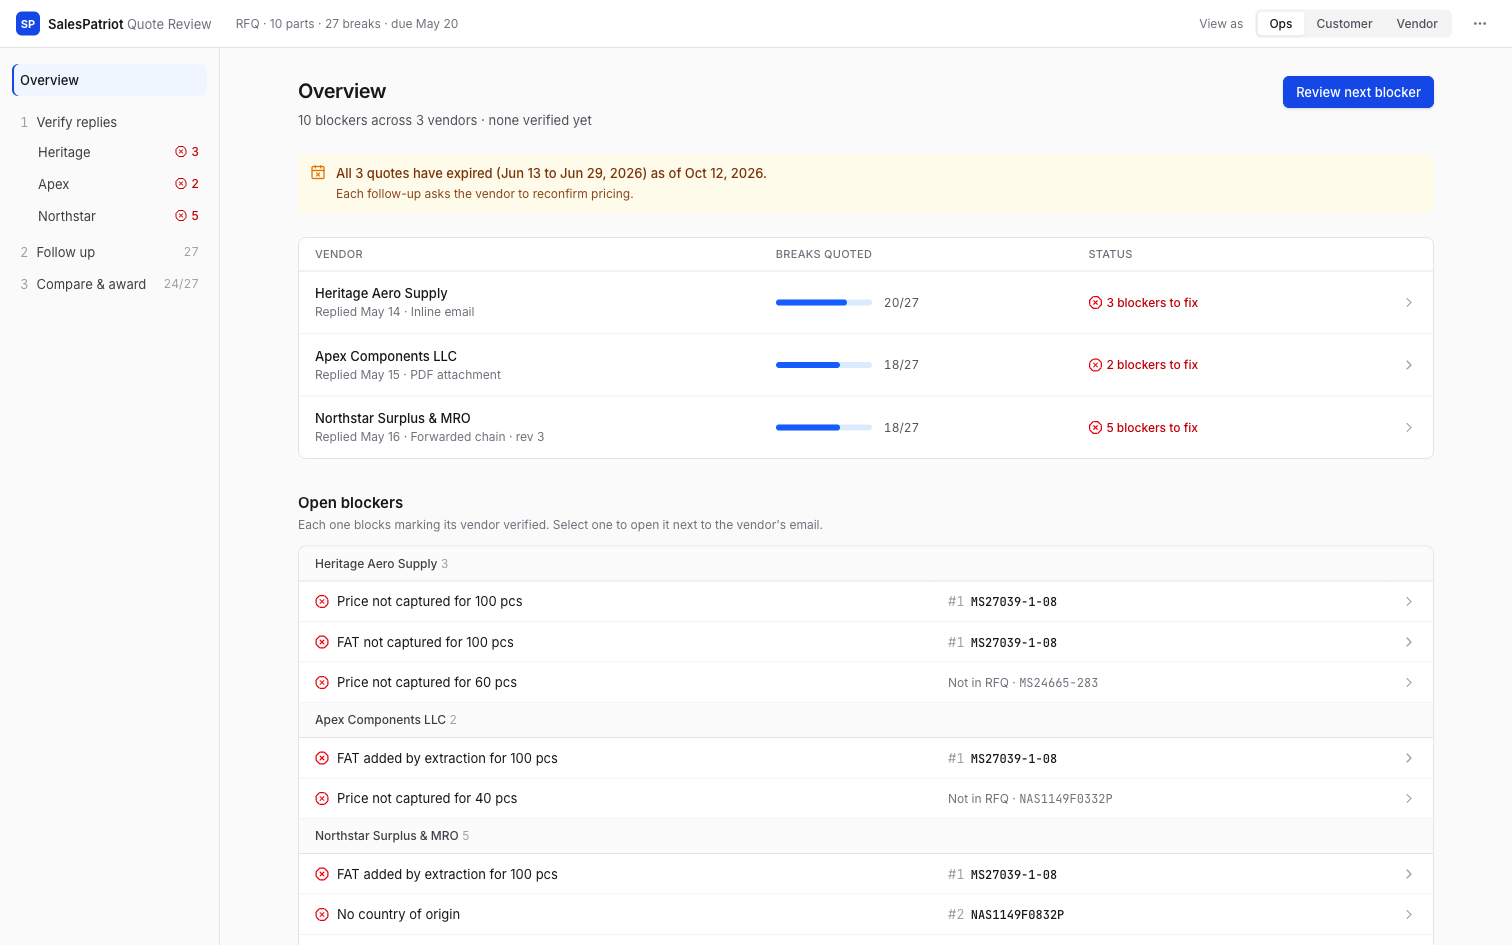
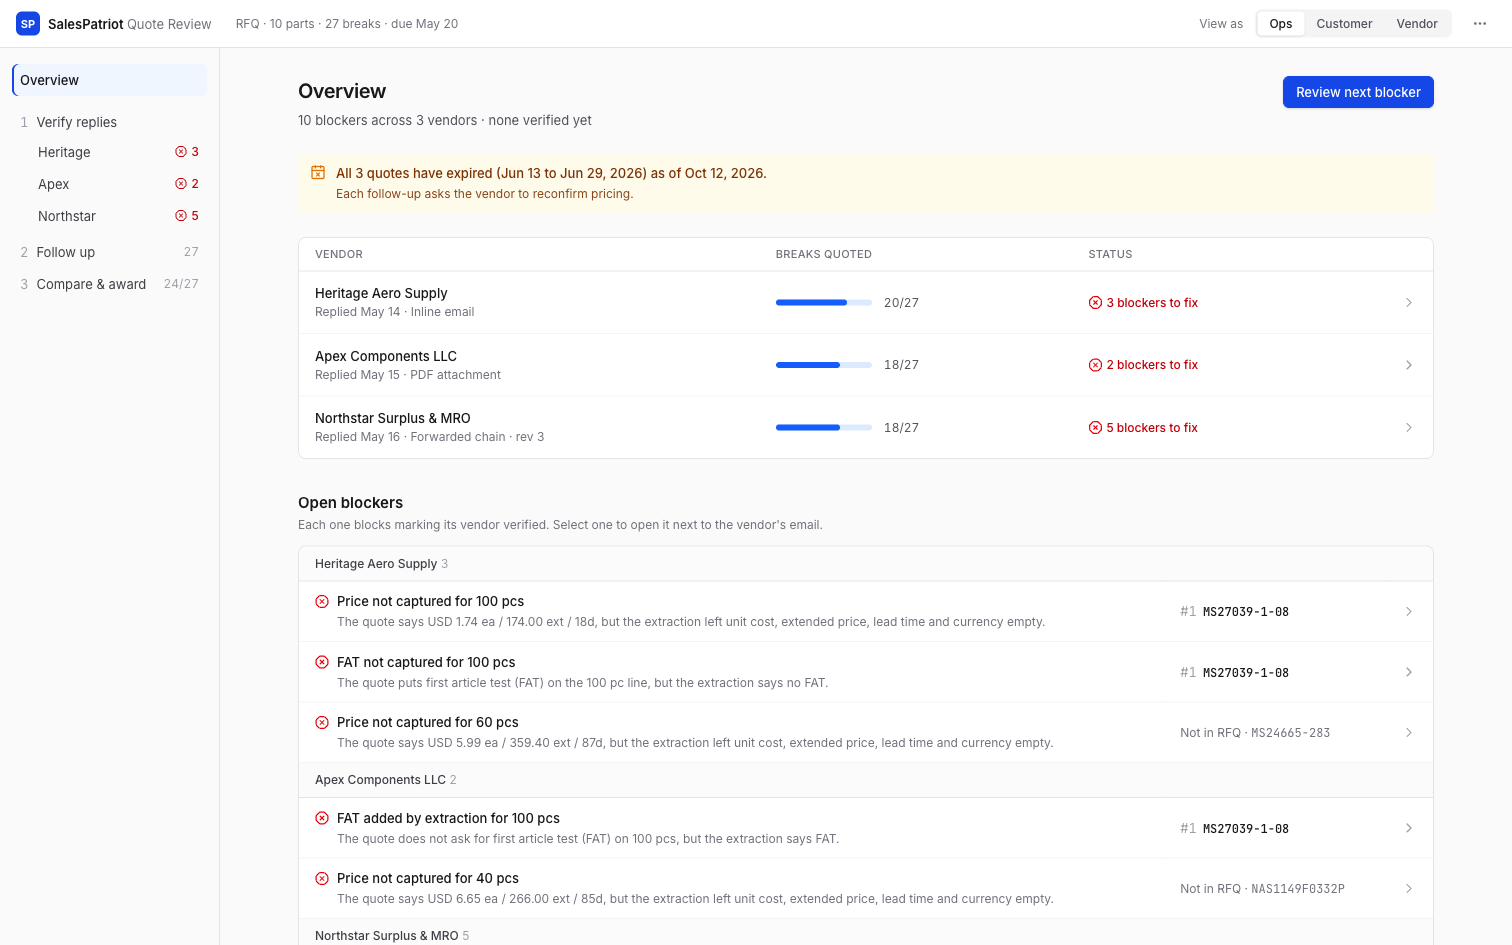
Make blockers obvious and show what each one is checked against
- Selected issue quotes the exact email or RFQ line it is checked against
  (with whose email and when), above the extracted-vs-email values.
- Blocker rows in the issues list and the overview show their comparison
  sentence in full; every issue row carries its severity icon.
- Quote table: lines with an open blocker are tinted red with a red edge and
  label; the selected line scrolls into view next to its email line.
- Fix: absolutely positioned screen-reader labels inside the panes could make
  the whole page scroll when a selection scrolled into view.

diff --git a/src/ui/shared/QuoteTable.tsx b/src/ui/shared/QuoteTable.tsx
@@ -4,7 +4,7 @@
 
 import clsx from 'clsx';
 import { Ban, ChevronRight, PenLine, TriangleAlert, Undo2 } from 'lucide-react';
-import { useState, type KeyboardEvent, type ReactNode } from 'react';
+import { useEffect, useRef, useState, type KeyboardEvent, type ReactNode } from 'react';
 import type { Flag, LineReview, ProductReview, RfqItem, RuleId, Severity, Span, VendorReview } from '../../domain/types';
 import { useReview } from '../../store/useReview';
 import { formatLeadTime, formatQty } from './format';
@@ -20,6 +20,8 @@ export interface QuoteTableProps { review: VendorReview;
 
 const COLUMN_COUNT = 5;
 const SEVERITY_RANK: Record<Severity, number> = { blocker: 0, warning: 1, info: 2 };
+/** Status label color per severity, so a blocker reads red at a glance. */
+const ISSUE_LABEL_TONES: Record<Severity, string> = { blocker: 'font-medium text-red-700', warning: 'text-amber-800', info: 'text-zinc-600' };
 /** Issues that mean a value exists in the email but is absent here: the cell says "Missing" in red. */
 const MISSING_VALUE_RULES: ReadonlySet<RuleId> = new Set(['EXTRACTION_DROPPED_VALUE', 'MISSING_PRICE']);
 const CELL = 'px-3 py-2';
@@ -81,6 +83,7 @@ export function QuoteTable({ review, audience, selectedLineId, onSelectLine }: Q
   const selectInStore = useReview((state) => state.select);
   const [expandedIds, setExpandedIds] = useState<ReadonlySet<string>>(() => new Set<string>());
   const [isNotInRfqOpen, setIsNotInRfqOpen] = useState(false);
+  const tableRef = useRef<HTMLTableElement>(null);
 
   const isOps = audience === 'ops';
   const vendorId = review.vendor.id;
@@ -94,6 +97,11 @@ export function QuoteTable({ review, audience, selectedLineId, onSelectLine }: Q
   const notInRfq = review.products.filter((productReview) => !isOnRfq(productReview));
   const isSelectionNotInRfq = notInRfq.some((productReview) => productReview.lines.some((lineReview) => lineReview.line.id === selectedLineId));
   const showNotInRfq = isNotInRfqOpen || isSelectionNotInRfq;
+
+  // Keep the selected line in view, so the extracted row and the email line it is checked against show together.
+  useEffect(() => {
+    if (selectedLineId) tableRef.current?.querySelector('tr[aria-current="true"]')?.scrollIntoView({ block: 'nearest' });
+  }, [selectedLineId]);
 
   const selectEvidence = (span: Span | undefined) => {
     if (isOps && span) selectInStore({ span });
@@ -123,7 +131,7 @@ export function QuoteTable({ review, audience, selectedLineId, onSelectLine }: Q
   };
 
   return (
-    <table className={clsx(TABLE.table, 'table-fixed')}>
+    <table ref={tableRef} className={clsx(TABLE.table, 'table-fixed')}>
       {isOps && (
         <caption className="caption-top px-3 py-2 text-left text-[12px] text-zinc-500">
           Prices match the vendor's email unless marked.
@@ -299,7 +307,9 @@ function DetailRow({ productReview, isOps }: { productReview: ProductReview; isO
 function LineRow({ lineReview, table }: { lineReview: LineReview; table: TableState }) {
   const { line, included } = lineReview;
   const isSelected = table.selectedLineId === line.id;
-  const isMissing = (table.openFlagsByLine.get(line.id) ?? []).some((flag) => MISSING_VALUE_RULES.has(flag.rule));
+  const openFlags = table.openFlagsByLine.get(line.id) ?? [];
+  const isMissing = openFlags.some((flag) => MISSING_VALUE_RULES.has(flag.rule));
+  const hasBlocker = openFlags.some((flag) => flag.severity === 'blocker');
   const select = table.selectLine ? () => table.selectLine?.(lineReview) : undefined;
   const valueClass = !included && 'text-zinc-400 line-through';
   const missing = <span className="text-[12px] font-medium text-red-600">Missing</span>;
@@ -312,9 +322,9 @@ function LineRow({ lineReview, table }: { lineReview: LineReview; table: TableSt
       aria-current={isSelected ? 'true' : undefined}
       onClick={select}
       onKeyDown={select && onActivateKey(select)}
-      className={clsx('group border-b border-zinc-100', isSelected ? 'bg-blue-50' : 'hover:bg-zinc-50', select && clsx('cursor-pointer', FOCUS_RING))}
+      className={clsx('group border-b border-zinc-100', isSelected ? 'bg-blue-50' : hasBlocker ? 'bg-red-50 hover:bg-red-100/60' : 'hover:bg-zinc-50', select && clsx('cursor-pointer', FOCUS_RING))}
     >
-      <td className={clsx(CELL, 'text-right font-medium tabular-nums', isSelected && 'shadow-[inset_2px_0_0_var(--color-blue-700)]', valueClass)}>
+      <td className={clsx(CELL, 'text-right font-medium tabular-nums', isSelected ? 'shadow-[inset_3px_0_0_var(--color-blue-700)]' : hasBlocker && 'shadow-[inset_3px_0_0_var(--color-red-500)]', valueClass)}>
         {table.isOps && line.isFat && <Badge className="mr-1.5">FAT</Badge>}
         {formatQty(line.quantity)}
       </td>
@@ -364,7 +374,7 @@ function OpsLineStatus({ lineReview, table, isSelected }: { lineReview: LineRevi
 /** An issue as severity icon plus its short rule label, with "+n" when the row has more. */
 function IssueLabel({ flag, extraCount }: { flag: Flag; extraCount: number }) {
   return (
-    <span className="inline-flex min-w-0 items-center gap-1.5 text-[12px] text-zinc-700" title={flag.detail}>
+    <span className={clsx('inline-flex min-w-0 items-center gap-1.5 text-[12px]', ISSUE_LABEL_TONES[flag.severity])} title={flag.detail}>
       <SeverityIcon severity={flag.severity} />
       <span className="truncate">{RULE_LABELS[flag.rule]}</span>
       {extraCount > 0 && <span className="tabular-nums text-zinc-400">+{extraCount}</span>}

diff --git a/src/ui/ops/IssuesPanel.tsx b/src/ui/ops/IssuesPanel.tsx
@@ -96,7 +96,7 @@ export function IssuesPanel({
   }, [selectedFlagId]);
 
   return (
-    <div ref={panelRef} className="flex min-h-0 flex-1 flex-col overflow-y-auto">
+    <div ref={panelRef} className="relative flex min-h-0 flex-1 flex-col overflow-y-auto">
       <h2 className="sticky top-0 z-10 border-b border-zinc-200 bg-white px-4 py-2.5 text-[15px] font-semibold text-zinc-900">Issues</h2>
 
       {blockerCount === 0 && ordered.length > 0 && (
@@ -126,7 +126,7 @@ export function IssuesPanel({
               type="button"
               aria-expanded={isOpen}
               onClick={() => setSectionOverrides((current) => ({ ...current, [severity]: !isOpen }))}
-              className={clsx('flex w-full items-center gap-2 px-4 py-2 text-left text-[12px] font-medium text-zinc-700 hover:bg-zinc-50', FOCUS_RING)}
+              className={clsx('flex w-full items-center gap-2 px-4 py-2 text-left text-[12px] font-medium hover:bg-zinc-50', severity === 'blocker' ? 'text-red-700' : 'text-zinc-700', FOCUS_RING)}
             >
               <ChevronRight aria-hidden className={clsx('size-3.5 text-zinc-400 transition-transform', isOpen && 'rotate-90')} />
               <SeverityIcon severity={severity} />
@@ -184,18 +184,27 @@ function IssueRow({ flag, review, isSelected, isAccepting, onSelect, onApplyFix,
 }) {
   const partNumber = flag.productId ? review.products.find((productReview) => productReview.product.id === flag.productId)?.product.partNumber : undefined;
   const itemPartNumber = partNumber ?? review.rfq.items.find((item) => item.no === flag.rfqNo)?.partNumber;
+  const isBlocker = flag.severity === 'blocker';
+  const evidence = isSelected ? findEvidence(review, flag) : undefined;
   return (
     <li data-flag-id={flag.id} className={clsx(isSelected && SELECTED_ROW)}>
       <button
         type="button"
         aria-expanded={isSelected}
         onClick={onSelect}
-        className={clsx('flex w-full items-baseline gap-3 px-4 py-2 pl-[38px] text-left', !isSelected && 'hover:bg-zinc-50', FOCUS_RING)}
+        className={clsx('flex w-full items-start gap-2.5 px-4 py-2 text-left', !isSelected && 'hover:bg-zinc-50', FOCUS_RING)}
       >
-        <span className={clsx('min-w-0 flex-1 text-[13px]', isSelected ? 'font-medium text-zinc-900' : 'truncate text-zinc-800')} title={flag.title}>
-          {flag.title}
+        <SeverityIcon severity={flag.severity} className="mt-[3px]" />
+        <span className="min-w-0 flex-1">
+          <span className="flex items-baseline gap-3">
+            <span className={clsx('min-w-0 flex-1 text-[13px]', isSelected || isBlocker ? 'font-medium text-zinc-900' : 'truncate text-zinc-800')} title={flag.title}>
+              {flag.title}
+            </span>
+            <span className="shrink-0 text-[12px] tabular-nums text-zinc-500">{scopeToken(flag)}</span>
+          </span>
+          {/* A blocker says what it compares even before it is opened. */}
+          {isBlocker && !isSelected && <span className="mt-0.5 block text-[12px] leading-[18px] text-zinc-500">{flag.detail}</span>}
         </span>
-        <span className="shrink-0 text-[12px] tabular-nums text-zinc-500">{scopeToken(flag)}</span>
       </button>
       {isSelected && (
         <div className="space-y-3 px-4 pb-4 pl-[38px]">
@@ -203,6 +212,14 @@ function IssueRow({ flag, review, isSelected, isAccepting, onSelect, onApplyFix,
             {RULE_LABELS[flag.rule]}
             {itemPartNumber && <ItemLabel rfqNo={flag.rfqNo} partNumber={itemPartNumber} />}
           </p>
+          {evidence && (
+            <figure>
+              <figcaption className="text-[11px] text-zinc-500">Checked against · {evidence.source}</figcaption>
+              <blockquote className="mt-1 whitespace-pre-wrap border-l-2 border-blue-600 bg-white px-2.5 py-1.5 font-mono text-[12px] text-zinc-900">
+                {evidence.text}
+              </blockquote>
+            </figure>
+          )}
           {flag.fix ? <FixDiff fix={flag.fix} line={findLine(review, flag.fix.lineId)} /> : (
             <p className="text-[12px] leading-[18px] text-zinc-600">{flag.detail}</p>
           )}
@@ -217,6 +234,18 @@ function IssueRow({ flag, review, isSelected, isAccepting, onSelect, onApplyFix,
       )}
     </li>
   );
+}
+
+/** The exact text an issue is checked against (outlined in the email pane) and where it comes from. */
+function findEvidence(review: VendorReview, flag: Flag): { source: string; text: string } | undefined {
+  const span = flag.evidence;
+  const doc = span ? review.docs.find((candidate) => candidate.key === span.docKey) : undefined;
+  if (!span || !doc) return undefined;
+  const text = doc.text.slice(span.start, span.end).trim();
+  if (!text) return undefined;
+  const origin = doc.role === 'rfq' ? 'our RFQ'
+    : doc.attachment ? `${doc.attachment.filename}, page ${doc.attachment.page}` : `${doc.fromName || 'the vendor'}'s email`;
+  return { source: `${origin}, ${formatShortDate(doc.date)}`, text };
 }
 
 /** The extracted line a fix applies to, if it exists. */

diff --git a/src/ui/ops/VendorReview.tsx b/src/ui/ops/VendorReview.tsx
@@ -112,10 +112,10 @@ function VendorReviewScreen({ review }: { review: VendorReviewData }) {
             onChange={(id) => setRightTab(id as RightTab)}
             items={[{ id: 'email', label: 'Email' }, { id: 'quote', label: 'Quote' }]}
           />
-          <section aria-label="Quote" className={clsx('min-h-0 min-w-0 overflow-auto bg-white min-[1440px]:block min-[1440px]:border-r min-[1440px]:border-zinc-200', rightTab === 'quote' ? 'flex-1' : 'hidden')}>
+          <section aria-label="Quote" className={clsx('relative min-h-0 min-w-0 overflow-auto bg-white min-[1440px]:block min-[1440px]:border-r min-[1440px]:border-zinc-200', rightTab === 'quote' ? 'flex-1' : 'hidden')}>
             <QuoteTable review={review} audience="ops" selectedLineId={selectedLineId} onSelectLine={(lineId, span) => select({ lineId, span })} />
           </section>
-          <section aria-label="Email" className={clsx('min-h-0 min-w-0 overflow-y-auto bg-white min-[1440px]:block', rightTab === 'email' ? 'flex-1' : 'hidden')}>
+          <section aria-label="Email" className={clsx('relative min-h-0 min-w-0 overflow-y-auto bg-white min-[1440px]:block', rightTab === 'email' ? 'flex-1' : 'hidden')}>
             <SourcePane
               docs={review.docs}
               highlights={highlights}

diff --git a/src/ui/ops/OpsOverview.tsx b/src/ui/ops/OpsOverview.tsx
@@ -126,7 +126,8 @@ export function OpsOverview() {
                         className={`${TABLE.rowInteractive} ${FOCUS_RING}`}
                       >
                         <td className="px-4 py-2.5">
-                          <span className="flex items-center gap-2 text-[13px] text-zinc-900"><SeverityIcon severity={flag.severity} />{flag.title}</span>
+                          <span className="flex items-center gap-2 text-[13px] font-medium text-zinc-900"><SeverityIcon severity={flag.severity} />{flag.title}</span>
+                          <span className="mt-0.5 block pl-[22px] text-[12px] leading-[18px] text-zinc-500">{flag.detail}</span>
                         </td>
                         <td className="px-4 py-2.5"><IssueScope flag={flag} review={review} /></td>
                         <td className="w-10 px-4 py-2.5"><ChevronRight aria-hidden className="size-4 text-zinc-400" /></td>

diff --git a/src/App.tsx b/src/App.tsx
@@ -59,7 +59,8 @@ export function App() {
       <PreviewRibbon />
       <div className="flex min-h-0 flex-1">
         {role === 'ops' && <Sidebar />}
-        <main className="min-w-0 flex-1 overflow-auto">
+        {/* relative: absolutely positioned (sr-only) descendants stay inside main, so the page itself never scrolls. */}
+        <main className="relative min-w-0 flex-1 overflow-auto">
           <ErrorBoundary key={`${role}:${view}:${vendorId ?? ''}`} onResetData={resetAll}>
             <ActiveView />
           </ErrorBoundary>

diff --git a/src/ui/shared/SourcePane.tsx b/src/ui/shared/SourcePane.tsx
@@ -32,7 +32,7 @@ const TONE_STRENGTH: Record<DrawnTone, number> = { blocker: 2, warning: 1 };
 
 /** A light tint plus an underline style per tone, so the mark is not color alone. */
 const TINT_CLASSES: Record<DrawnTone, string> = {
-  blocker: 'bg-red-50 underline decoration-red-400 decoration-2 underline-offset-2',
+  blocker: 'bg-red-100 underline decoration-red-500 decoration-2 underline-offset-2',
   warning: 'bg-amber-50 underline decoration-amber-400 decoration-wavy underline-offset-2',
 };
 
